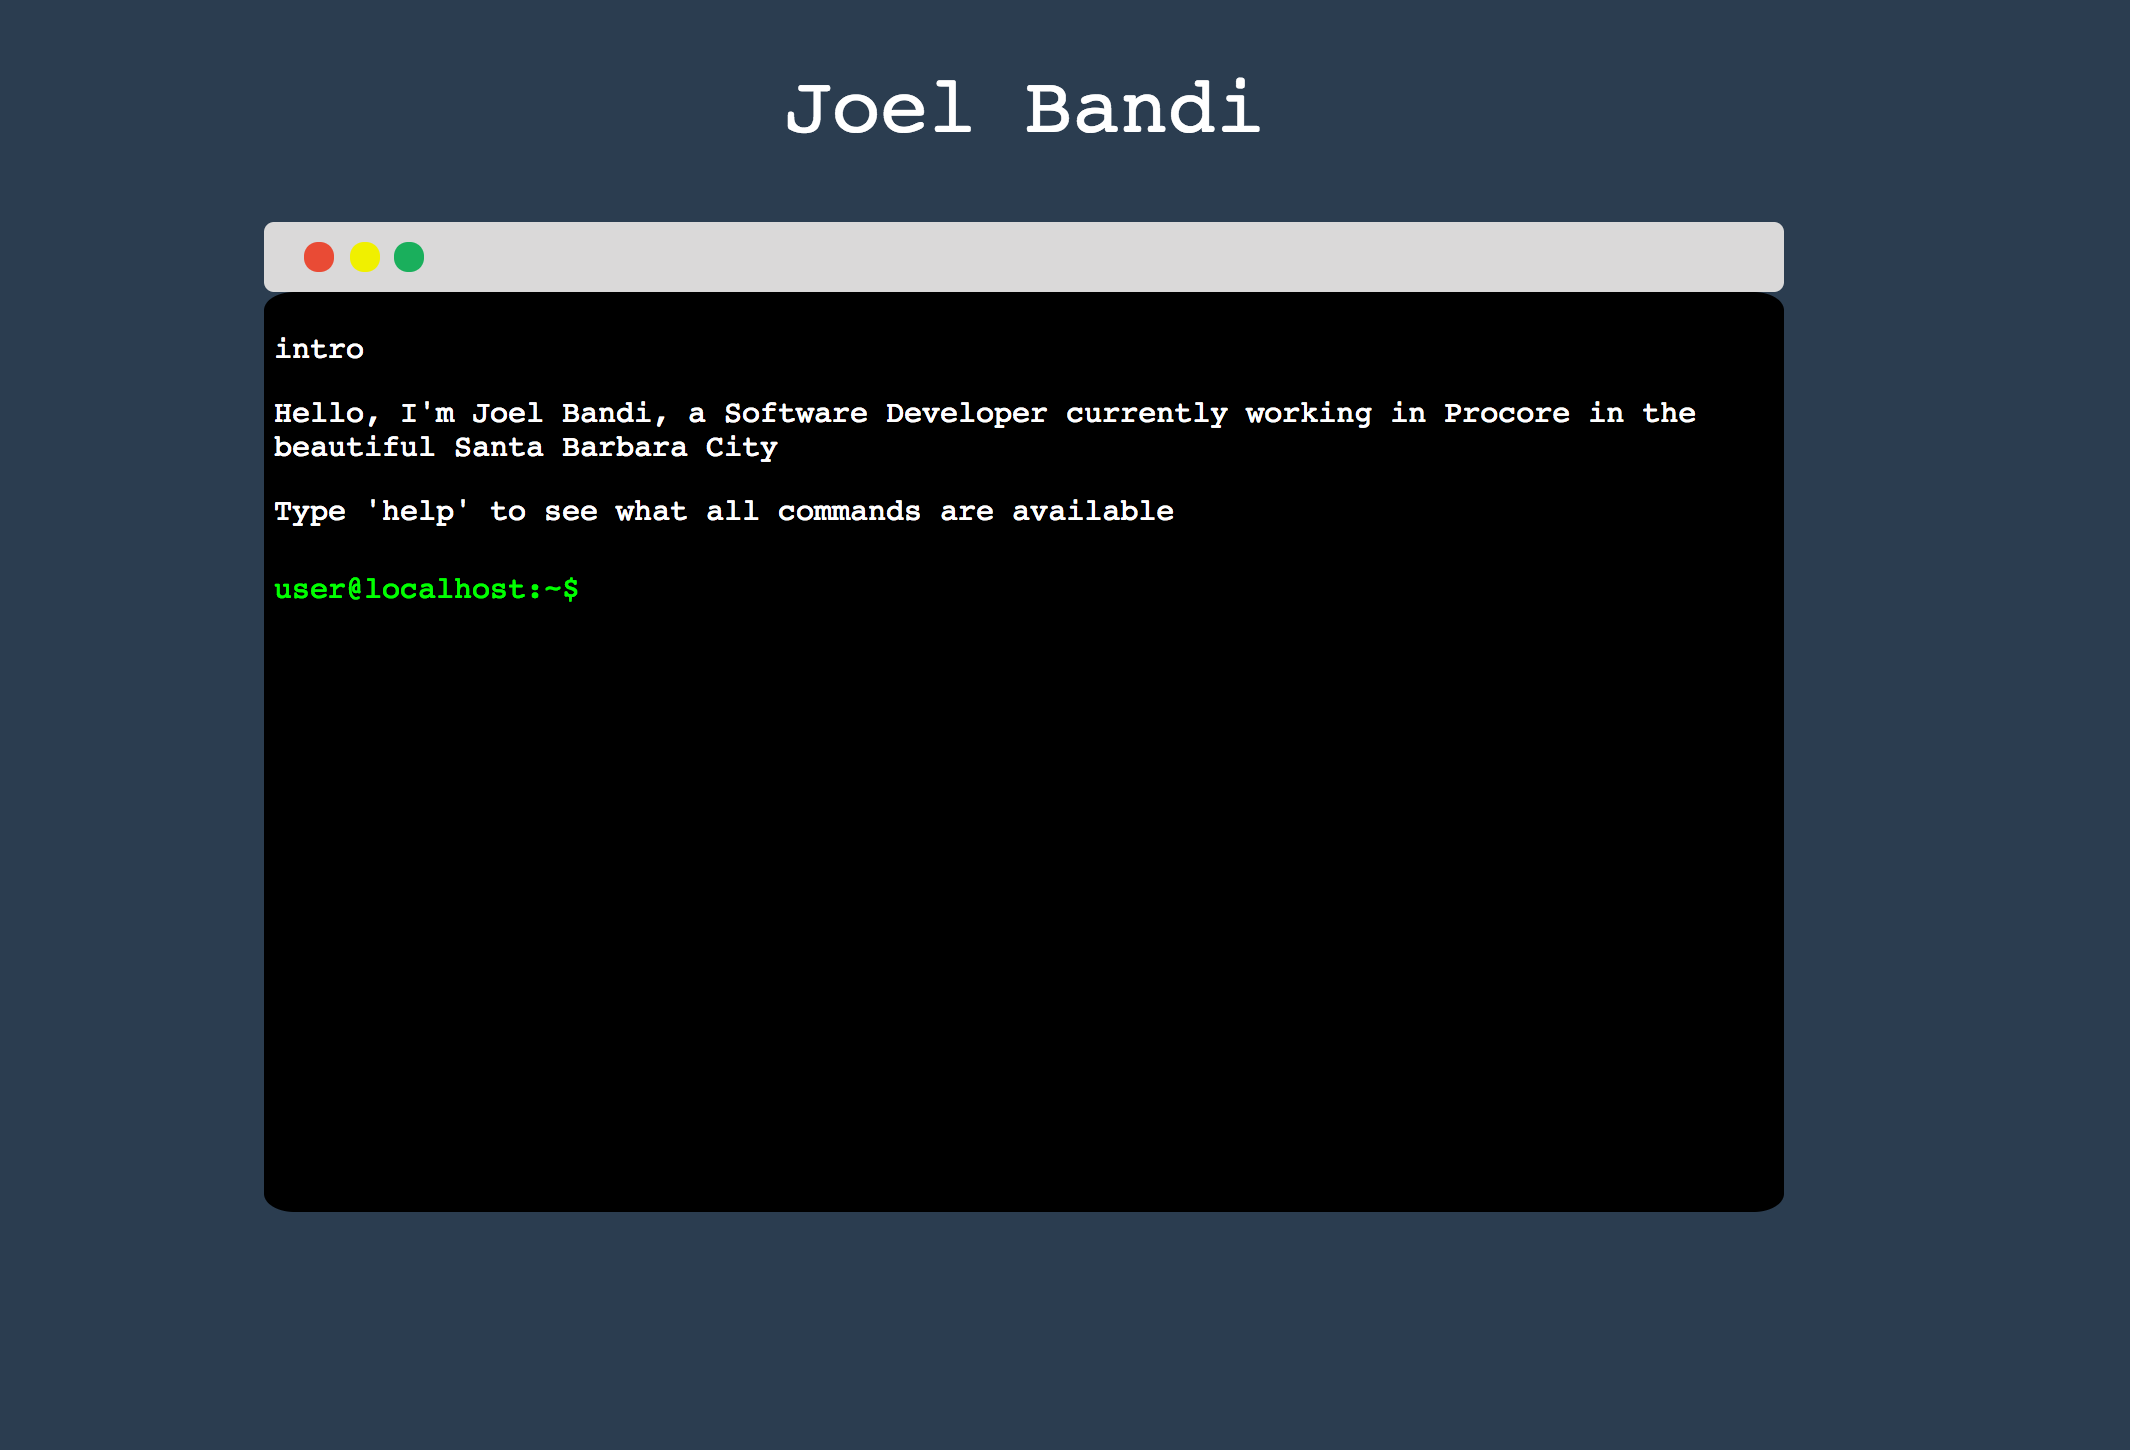
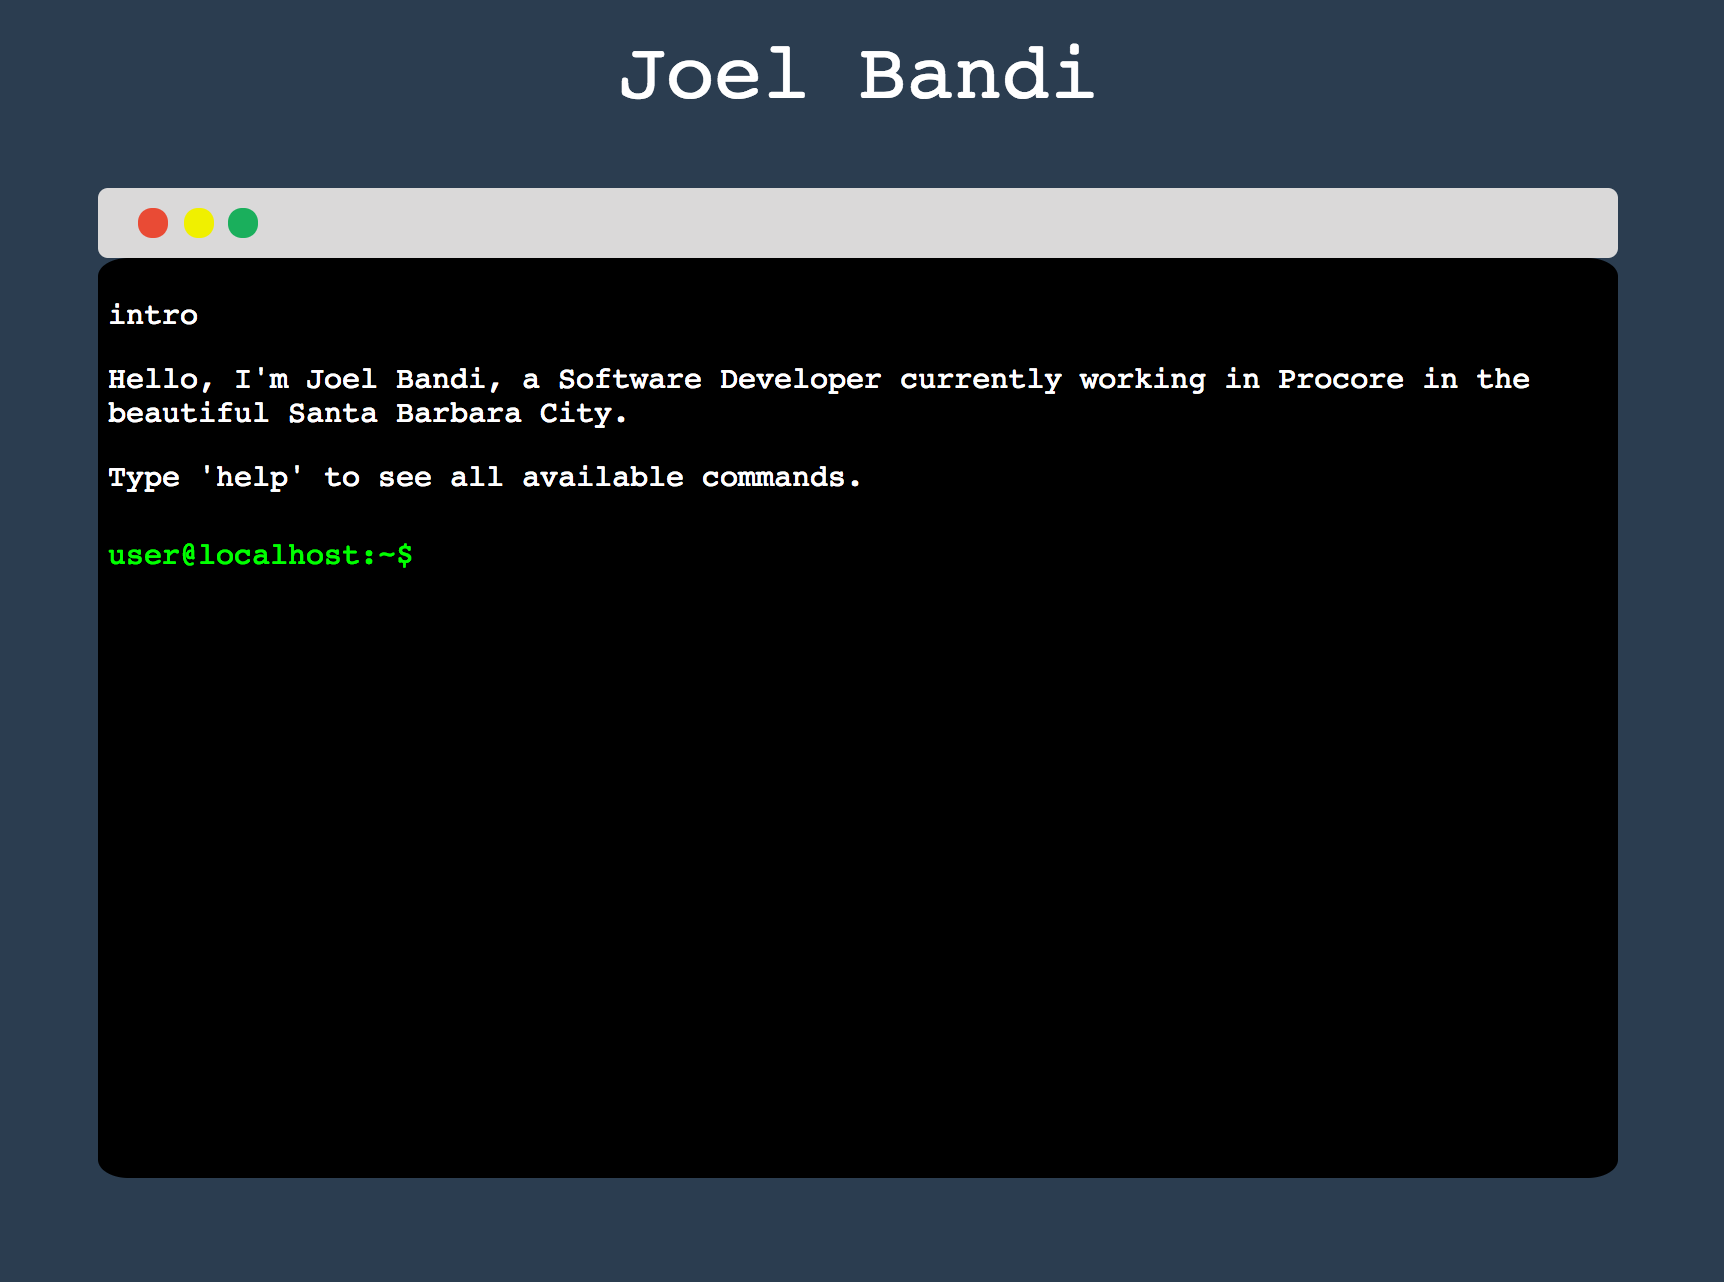
updated picture and intro message

Changed region(s): [[0.0307, 0.1248, 0.953, 0.936], [0.3689, 0.0312, 0.6456, 0.0936]]

diff --git a/src/module.js b/src/module.js
@@ -52,8 +52,8 @@ const actions = {
 
   showIntro: () => {
     store.dispatch(module.actions.addHistory(`intro`));
-    store.dispatch(module.actions.addHistory(`Hello, I'm ${name}, a ${occupation} currently working in ${company} in the beautiful ${location}`));
-    store.dispatch(module.actions.addHistory(`Type 'help' to see what all commands are available`));
+    store.dispatch(module.actions.addHistory(`Hello, I'm ${name}, a ${occupation} currently working in ${company} in the beautiful ${location}.`));
+    store.dispatch(module.actions.addHistory(`Type 'help' to see all available commands.`));
   },
 
 
